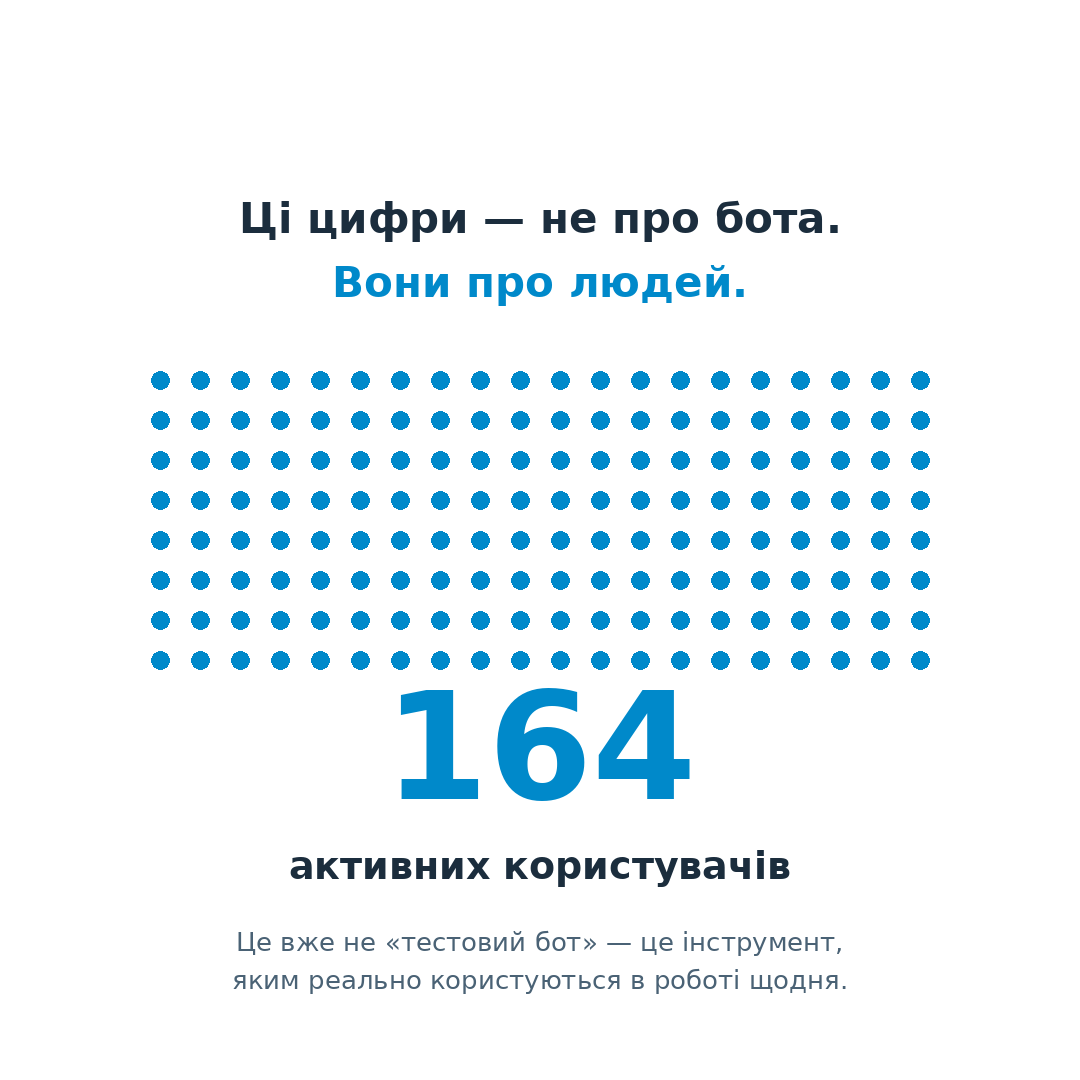
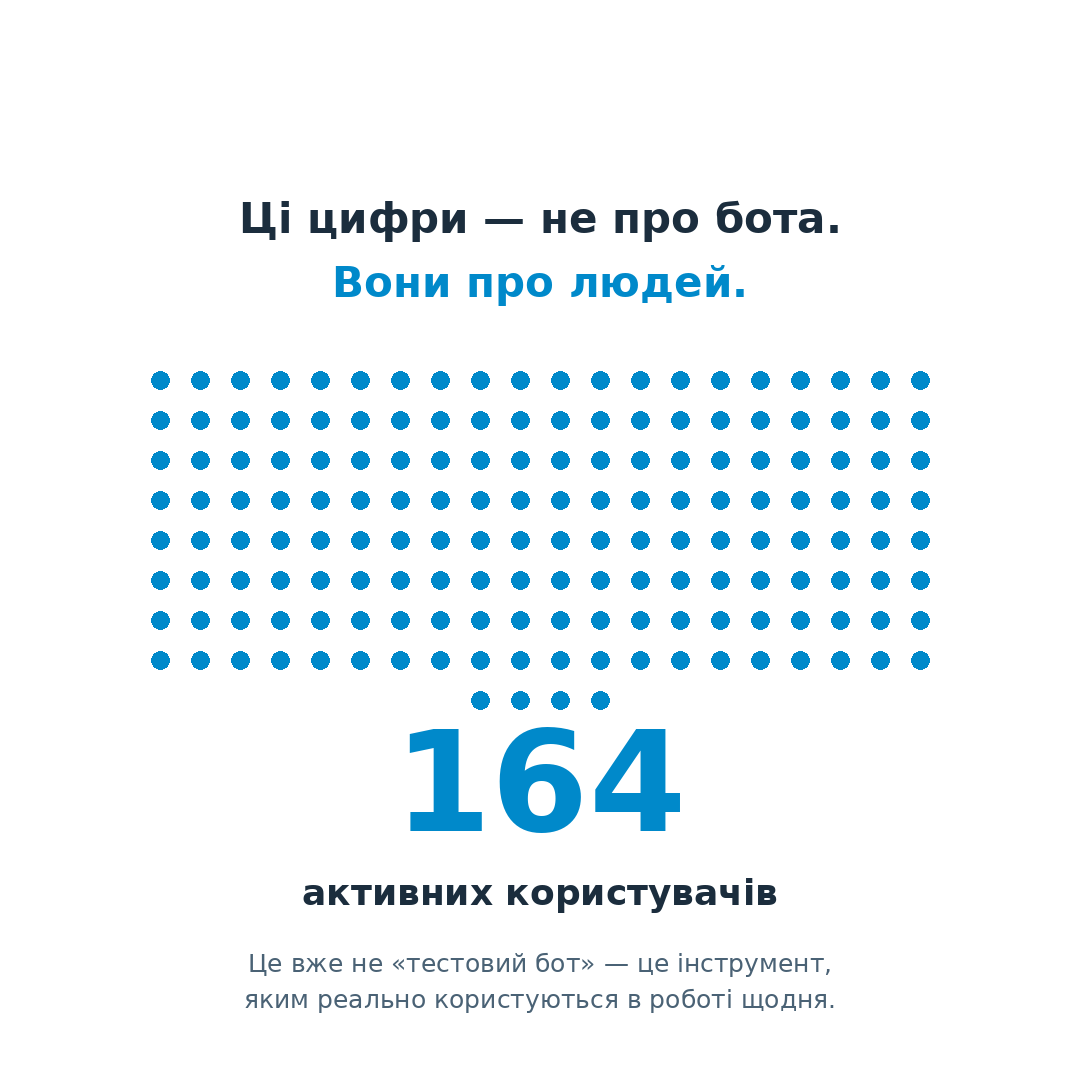
170926/7

Changed region(s): [[0.2139, 0.6111, 0.7944, 0.9472]]

diff --git a/messages/oneTimeMessages/ftp15years/ftp_celebration15.py b/messages/oneTimeMessages/ftp15years/ftp_celebration15.py
@@ -50,9 +50,9 @@ STEPS = {
     # цифри, підпис) — дублювати його підписом під фото не треба, інфографіки
     # досить. Підписи лишаються там, де несуть НОВИЙ зміст, якого немає на
     # картинці: крок 1 (на гіфці взагалі немає тексту), крок 2 (короткий
-    # список функцій — не статистика, тож картинку не дублює) і крок 9
-    # (тепле привітання та побажання — доповнює емоційний фінал, а не
-    # повторює текст, який уже намальований на самій картинці).
+    # список функцій — не статистика, тож картинку не дублює), крок 9
+    # (слово фінансового відділу) і крок 10 (тепле привітання та побажання —
+    # доповнює емоційний фінал, а не повторює текст із самої картинки).
     1: {
         "file": "ftp_celebration.gif",
         "caption": (
@@ -81,7 +81,28 @@ STEPS = {
     6: {"file": "screen_6_night.png", "caption": None},
     7: {"file": "screen_7_ai.png", "caption": None},
     8: {"file": "screen_8_recap.png", "caption": None},
+    # Передостанній кадр: від статистики бота переходимо до планів компанії.
+    # На картинці лише заголовок, суть — у підписі (ліміт Telegram 1024 символи).
     9: {
+        "file": "screen_finance.png",
+        "caption": (
+            "💼 <b>Кілька слів від фінансового відділу</b>\n\n"
+            "За 15 років FTP виросла в потужну компанію — і попереду в нас багато нових проєктів. "
+            "Ось що вже відбувається:\n\n"
+            "📊 <b>Бюджетування.</b> З 2027 року запускаємо бюджетування всіх витрат підприємства — "
+            "для повного контролю над видатками.\n"
+            "🔍 <b>Аудит і МСФЗ.</b> Проходимо аудит і змінюємо облік, щоб управлінська звітність "
+            "відповідала міжнародним стандартам.\n"
+            "📈 <b>Аналітика.</b> Розробляємо сервіси на базі OLAP: фінансові показники стануть "
+            "максимально прозорими — з чітким розмежуванням прав доступу до закритої інформації.\n\n"
+            "Маємо чіткий план і впевнено рухаємося вперед 🚀\n\n"
+            "🙏 Дякуємо за продуктивну співпрацю з нашим відділом, достовірні дані в облікових "
+            "програмах і вашу довіру.\n\n"
+            "Бажаємо професійного зростання й великих досягнень у команді людей, які по-справжньому "
+            "люблять свою справу. Наша робота важлива не лише для FTP, а й для України 🇺🇦 — особливо зараз."
+        ),
+    },
+    10: {
         "file": "screen_9_final.png",
         "caption": (
             "Хай наступні роки принесуть FTP ще більше сміливих ідей, вдалих угод "
@@ -163,7 +184,7 @@ async def _keyboard_for(step: int, telegram_id: int) -> InlineKeyboardMarkup:
 
     Перевірка в БД потрібна лише на останньому кроці — щоб той, хто вже
     натискав «Привітати FTP», не бачив цю кнопку знову, якщо повернеться
-    сюди через «← Назад» → «Далі →». На кроках 1–8 жодного запиту немає.
+    сюди через «← Назад» → «Далі →». На решті кроків жодного запиту немає.
     """
     if step == LAST_STEP and await run_blocking(has_greeted, telegram_id):
         return _post_greet_keyboard()
@@ -319,7 +340,7 @@ def _ensure_greetings_table(cursor) -> None:
 
 
 def has_greeted(telegram_id: int) -> bool:
-    """Чи ця людина вже натискала «Привітати FTP» (щоб на кроці 9 не показувати кнопку вдруге)."""
+    """Чи ця людина вже натискала «Привітати FTP» (щоб на фінальному кроці не показувати кнопку вдруге)."""
     conn = get_db_connection()
     try:
         with conn, conn.cursor() as cursor:

diff --git a/telegrambot.py b/telegrambot.py
@@ -811,8 +811,8 @@ def main():
     scheduler.add_job(
        send_message_to_users,
        'cron',
-       hour=13,
-       minute=20,
+       hour=15,
+       minute=45,
        timezone=kyiv_timezone
    )
 
